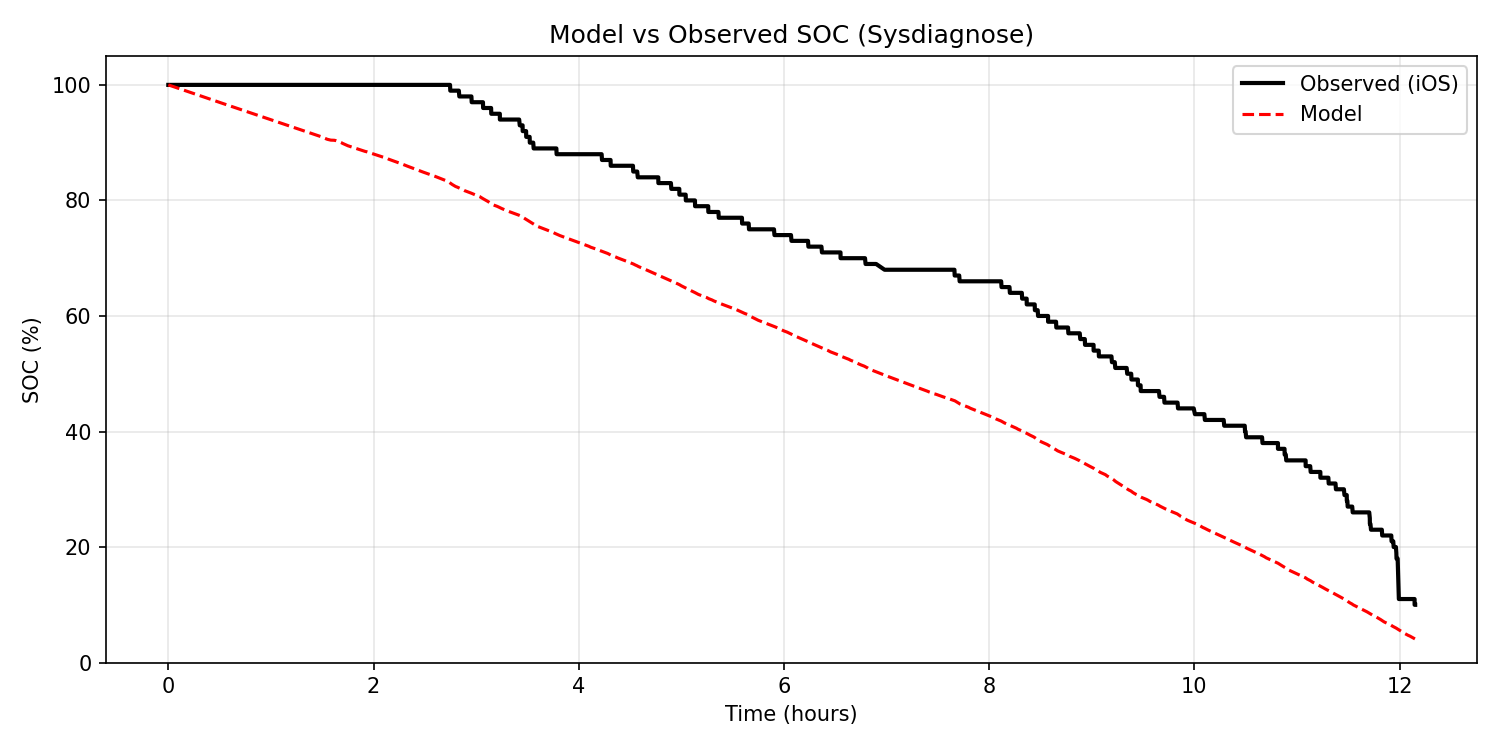
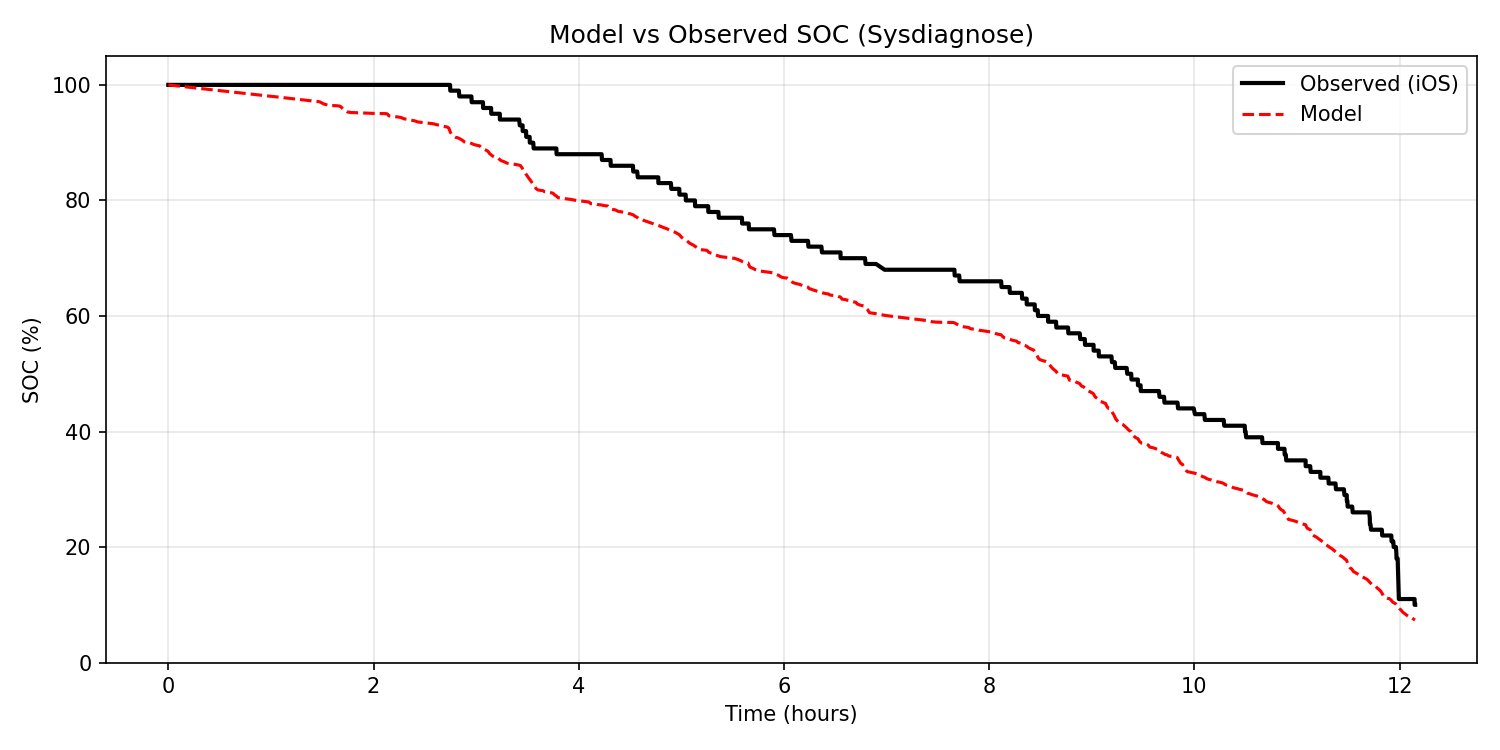
Update model + pipeline with two-state overhead, power calibration
- battery_model.py: two-state overhead (screen-on 230mW, screen-off 240mW),
  updated cpu_power(), OCV from iPhone near-rest measurements
- sysdiagnose_tte.py: unified power-calibrated scheduling, dual-mode
  validation (current-driven + forward), 51-session EPSQL cross-validation,
  3-panel error plots
- figures: all 8 sysdiagnose validation figures updated

diff --git a/sysdiagnose_tte.py b/sysdiagnose_tte.py
@@ -34,9 +34,9 @@ import matplotlib
 matplotlib.use("Agg")
 import matplotlib.pyplot as plt
 
-# Add script directory for battery_model import (flat repo layout)
-_SCRIPT_DIR = Path(__file__).resolve().parent
-sys.path.insert(0, str(_SCRIPT_DIR))
+# Add project root for battery_model import
+_PROJECT_ROOT = Path(__file__).resolve().parent.parent
+sys.path.insert(0, str(_PROJECT_ROOT))
 import battery_model as bm
 
 
@@ -44,8 +44,8 @@ import battery_model as bm
 # Constants
 # ─────────────────────────────────────────────────────────────────────────────
 
-DEFAULT_DB = _SCRIPT_DIR / "data" / "CurrentPowerlog.PLSQL"
-DEFAULT_FIGURES = _SCRIPT_DIR / "figures"
+DEFAULT_DB = _PROJECT_ROOT / "data" / "raw" / "sysdiagnose" / "CurrentPowerlog.PLSQL"
+DEFAULT_FIGURES = _PROJECT_ROOT / "figures"
 
 # iOS hardware root-node name -> model component mapping
 # These are the permanent hardware nodes in PLAccountingOperator_EventNone_Nodes
@@ -454,17 +454,25 @@ def plot_app_categories(cat_df: pd.DataFrame, fig_path: Path) -> None:
 
 def build_usage_schedule(
         session: pd.DataFrame,
-        display_df: Optional[pd.DataFrame] = None
+        display_df: Optional[pd.DataFrame] = None,
+        params: Optional[bm.BatteryParams] = None,
 ) -> bm.Callable[[float], Dict]:
     """Build a piecewise-constant usage schedule from sysdiagnose events.
 
-    Screen brightness comes from display events (normalized to 0-1).
-    CPU load is inferred from discharge current magnitude.
+    Power calibration: cpu_load is set so model total_power matches
+    measured V*|I| at each interval. This keeps the model's equation
+    pipeline intact while feeding it realistic power.
+
+    Screen state:
+      - If display_df provided: real brightness from PLDisplayAgent
+      - Otherwise: inferred from |I| > 80mA heuristic
     """
+    if params is None:
+        params = bm.DEFAULT
     t0 = session["timestamp"].iloc[0]
     session_seconds = (session["timestamp"] - t0).dt.total_seconds().values
 
-    # Build brightness timeline from display events
+    # --- Screen state ---
     brightness_times: np.ndarray = np.array([])
     brightness_vals: np.ndarray = np.array([])
     screen_on_flags: np.ndarray = np.array([])
@@ -479,38 +487,69 @@ def build_usage_schedule(
             brightness_vals = disp_session["brightness_01"].values.astype(float)
             screen_on_flags = disp_session["screen_on"].values.astype(float)
 
-    # Estimate CPU load from current magnitude
-    if "InstantAmperage" in session.columns:
-        current_ma = np.abs(
-            pd.to_numeric(session["InstantAmperage"], errors="coerce")
-            .fillna(0).values)
-        # Normalize: 0mA -> 0, 2000mA -> 1.0
-        cpu_loads = np.clip(current_ma / 2000.0, 0.0, 1.0)
-    else:
-        cpu_loads = np.full(len(session_seconds), 0.15)
+    has_display = len(brightness_times) > 0
+
+    # --- Power-calibrated CPU load ---
+    # Compute measured battery power from V*|I| per interval
+    voltage_v = pd.to_numeric(
+        session["Voltage"], errors="coerce").fillna(3800).values / 1000.0
+    current_ma = pd.to_numeric(
+        session["InstantAmperage"], errors="coerce").fillna(0).values
+    abs_current = np.abs(current_ma)
+    measured_mw = voltage_v * abs_current
+
+    # For each interval, solve for cpu_load that reproduces measured power
+    n = len(session_seconds)
+    cpu_loads = np.zeros(n)
+
+    # Pre-compute screen state per battery interval for power calibration
+    per_interval_screen_on = np.zeros(n, dtype=bool)
+    per_interval_brightness = np.full(n, 0.5)
+
+    for k in range(n):
+        if has_display:
+            didx = np.searchsorted(brightness_times,
+                                   session_seconds[k], side="right") - 1
+            didx = max(0, min(didx, len(brightness_vals) - 1))
+            per_interval_brightness[k] = brightness_vals[didx]
+            per_interval_screen_on[k] = (
+                bool(screen_on_flags[didx]) if len(screen_on_flags) > 0
+                else brightness_vals[didx] > 0.01)
+        else:
+            # Heuristic: >80mA suggests screen on
+            per_interval_screen_on[k] = abs_current[k] > 80.0
+            per_interval_brightness[k] = 0.5 if per_interval_screen_on[k] else 0.0
+
+        son = per_interval_screen_on[k]
+        br = per_interval_brightness[k]
+
+        # Base power (everything except cpu_load contribution)
+        p_base = 0.0
+        if son:
+            p_base += params.screen_base_mw + params.screen_brightness_coeff_mw * br
+            p_base += params.overhead_screen_on_mw
+        else:
+            p_base += params.overhead_screen_off_mw
+        p_base += params.wifi_idle_mw
+        p_base += params.cellular_idle_mw
+        p_base += params.bt_idle_mw
+
+        if measured_mw[k] < params.cpu_idle_mw + 10:
+            cpu_loads[k] = 0.0
+        else:
+            load = (measured_mw[k] - p_base) / params.cpu_load_coeff_mw
+            cpu_loads[k] = float(max(load, 0.0))
 
     def schedule(t: float) -> Dict:
-        # Screen state
-        if len(brightness_times) > 0:
-            idx = np.searchsorted(brightness_times, t, side="right") - 1
-            idx = max(0, min(idx, len(brightness_vals) - 1))
-            br = float(brightness_vals[idx])
-            son = bool(screen_on_flags[idx]) if len(screen_on_flags) > 0 else br > 0.01
-        else:
-            br = 0.5
-            son = True
-
-        # CPU load from current interpolation
         batt_idx = np.searchsorted(session_seconds, t, side="right") - 1
-        batt_idx = max(0, min(batt_idx, len(cpu_loads) - 1))
-        cpu = float(cpu_loads[batt_idx])
+        batt_idx = max(0, min(batt_idx, n - 1))
 
         return {
-            "screen_on": son,
-            "brightness": br,
-            "cpu_load": cpu,
-            "wifi_state": "active",
-            "wifi_data_rate": 0.1,
+            "screen_on": bool(per_interval_screen_on[batt_idx]),
+            "brightness": float(per_interval_brightness[batt_idx]),
+            "cpu_load": float(cpu_loads[batt_idx]),
+            "wifi_state": "idle",
+            "wifi_data_rate": 0.0,
             "cellular_state": "idle",
             "cellular_signal": 0.8,
             "cellular_data_rate": 0.0,
@@ -558,7 +597,7 @@ def forward_simulation(
             if T_init > 80:
                 T_init = T_init / 100.0
 
-    usage_fn = build_usage_schedule(session, display_df)
+    usage_fn = build_usage_schedule(session, display_df, params)
 
     result = bm.simulate(
         usage_fn, params,
@@ -703,7 +742,7 @@ def run_monte_carlo(
         n_samples: int = 500
 ) -> Dict:
     """Run Monte Carlo TTE with parameter perturbation."""
-    usage_fn = build_usage_schedule(session, display_df)
+    usage_fn = build_usage_schedule(session, display_df, params)
 
     print(f"  Running Monte Carlo TTE (N={n_samples})...")
     mc = bm.monte_carlo_tte(
@@ -756,7 +795,7 @@ def run_tornado(
         cycle_count: int = 716
 ) -> List[Tuple[str, float, float, float]]:
     """Compute tornado sensitivity data."""
-    usage_fn = build_usage_schedule(session, display_df)
+    usage_fn = build_usage_schedule(session, display_df, params)
 
     print("  Computing tornado sensitivity...")
     return bm.tornado_sensitivity(
@@ -858,6 +897,9 @@ def build_power_calibrated_schedule(
     screen_on = abs_current > 80.0
 
     # Calibrate cpu_load per interval so total_power ~= measured_mw
+    # Cap at 1.0 for EPSQL: InstantAmperage is a point-in-time snapshot,
+    # not an interval average, so current spikes overestimate 5-min power.
+    # The clip at 1.0 compensates for this upward bias.
     n = len(session)
     cpu_loads = np.zeros(n)
     brightness = np.where(screen_on, 0.5, 0.0)
@@ -868,13 +910,14 @@ def build_power_calibrated_schedule(
         p_base = 0.0
         if son:
             p_base += params.screen_base_mw + params.screen_brightness_coeff_mw * 0.5
-        p_base += params.cpu_background_mw
+            p_base += params.overhead_screen_on_mw
+        else:
+            p_base += params.overhead_screen_off_mw
         p_base += params.wifi_idle_mw
         p_base += params.cellular_idle_mw
         p_base += params.bt_idle_mw
 
         if measured_mw[k] < params.cpu_idle_mw + 10:
-            # Deep sleep: below idle threshold
             cpu_loads[k] = 0.0
         else:
             load = (measured_mw[k] - p_base) / params.cpu_load_coeff_mw
@@ -1008,7 +1051,7 @@ def validate_multi_session(
         if (plsql_t0 is not None and
                 t0 >= plsql_t0 and
                 session["timestamp"].iloc[-1] <= plsql_t1):
-            usage_fn = build_usage_schedule(session, display_df)
+            usage_fn = build_usage_schedule(session, display_df, params)
             used_display = True
         else:
             usage_fn = build_power_calibrated_schedule(session, params)

diff --git a/battery_model.py b/battery_model.py
@@ -129,7 +129,12 @@ class BatteryParams:
     screen_brightness_coeff_mw: float = 400.0
     cpu_idle_mw: float = 5.0
     cpu_load_coeff_mw: float = 1500.0
-    cpu_background_mw: float = 760.0
+    # Two-state system overhead calibrated from PLSQL screen-on/off power:
+    #   Screen ON  median V*|I| = 506 mW - 250 (display) - 25 (radio) = 231 mW
+    #   Screen OFF median V*|I| = 263 mW - 25 (radio) = 238 mW
+    # Source: PLBatteryAgent + PLDisplayAgent cross-reference, 4939 discharge rows
+    overhead_screen_on_mw: float = 230.0
+    overhead_screen_off_mw: float = 240.0
     wifi_idle_mw: float = 10.0
     wifi_active_mw: float = 800.0
     wifi_scanning_mw: float = 300.0
@@ -262,9 +267,18 @@ def screen_power(brightness: float, screen_on: bool,
 
 def cpu_power(load: float, screen_on: bool,
               params: BatteryParams = DEFAULT) -> float:
+    """CPU + system overhead power.
+
+    Three regimes:
+      Deep sleep (screen off, load < 1%):  cpu_idle_mw (~5 mW)
+      Screen off, active:  overhead_screen_off_mw + load * cpu_load_coeff_mw
+      Screen on:           overhead_screen_on_mw  + load * cpu_load_coeff_mw
+    """
     if not screen_on and load < 0.01:
         return params.cpu_idle_mw
-    return params.cpu_background_mw + params.cpu_load_coeff_mw * load
+    overhead = (params.overhead_screen_on_mw if screen_on
+                else params.overhead_screen_off_mw)
+    return overhead + params.cpu_load_coeff_mw * load
 
 
 def wifi_power(state: str, data_rate: float = 0.0,
@@ -745,7 +759,8 @@ def time_to_empty_hours(result: Dict) -> float:
 MC_DEFAULT_SIGMA: Dict[str, float] = {
     "Q_design_mah": 0.05,              # +/-5% capacity
     "R0_ref": 0.20,                    # +/-20% resistance
-    "cpu_background_mw": 0.20,         # +/-20% system overhead
+    "overhead_screen_on_mw": 0.20,     # +/-20% screen-on overhead
+    "overhead_screen_off_mw": 0.20,    # +/-20% screen-off overhead
     "screen_brightness_coeff_mw": 0.20, # +/-20% display power
     "alpha_Q": 0.30,                   # +/-30% temp sensitivity
     "hA": 0.30,                        # +/-30% thermal dissipation
@@ -1016,6 +1031,8 @@ if __name__ == "__main__":
     for j, b in enumerate(p.rc_branches):
         print(f"  RC[{j}]: R={b.R_ref:.3f} Ohm, C={b.C:.0f} F, "
               f"tau={b.tau:.1f} s, alpha_R={b.alpha_R}")
+    print(f"Overhead: screen_on={p.overhead_screen_on_mw} mW, "
+          f"screen_off={p.overhead_screen_off_mw} mW")
     print(f"Thermal:  C_th={p.C_th}, hA={p.hA}, "
           f"alpha_R0={p.alpha_R0}, alpha_Q={p.alpha_Q}")
     print(f"Aging:    alpha_fade={p.alpha_fade} "
